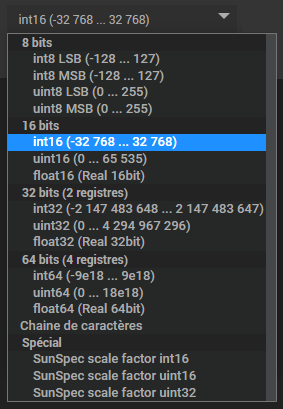
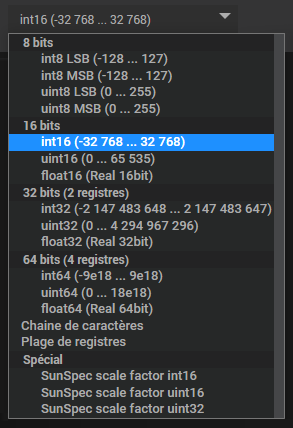
Mise à jour pour la beta 5

Changed region(s): [[0.0, 0.0293, 1.0, 0.9976]]

diff --git a/fr_FR/index_b.md b/fr_FR/index_b.md
@@ -241,6 +241,7 @@ Pour comprendre cette partie, il faut un peu de théorie :
 | uint                  | Entier positif            |
 | float                 | Nombre flottant (réel)    |
 | chaine de caractères  | Chaine de caractères      |
+| plage de registres    | Plage de registres        |
 | SunSpec scale factor  | Type spécifique à SunSpec |
 
 Pour les types int, uint et float, le démon MyModbus lira le bon nombre de registres en fonction du nombre de bits sur
@@ -249,14 +250,29 @@ lesquels sont codées les variables. L'adresse de ces variables doit être un no
 Pour une chaine de caractères, l'adresse doit être renseignée comme ceci : 'adresse_début [longueur]'.
 Par exemple '20406 [32]' pour une chaine de caractère de 32 caractères qui commence à l'adresse 20406.
 
-Dans les appareils de la marque SunSpec, certaines mesures sont codées avec deux registres : 'registre1 * 10^registre2'.
-Pour ces types de variable, l'adresse doit être renseignée comme ceci : 'registre1 sf registre2', par exemple
-'40036 sf 40045'.
+Une plage de registres correspond à un groupe de plusieurs registres à lire en une requête. L'adresse est au même format
+que pour une chaîne de caractères à savoir 'adresse_début [longueur]'. La nombre maximal de registres lisibles en une
+requête dépend du matériel et est généralement documenté. Une commande de ce type a une valeur '1' si la requête est
+exécutée sans erreur. Sinon elle prend la valeur '0'.  
+Pour extraire une valeur de cette plage de registres, les autres commande doivent être configurée avec une requête
+'Depuis une plage de données'. Un champs devant contenir le nom de la commande qui lit la plage concernée doit être
+renseigné et le champs d'adresse est identique à ce qui doit être configuré pour une commande standard.  
+Attention à faire en sorte que le registre soit effectivement dans la plage de lecture.
+
+> :memo: ***Remarque***  
+> Une communication Modbus avec un minimum de requêtes est bien plus performante et moins gourmande en ressources si
+> le nombre de requêtes est limité au minimum. Il est vivement conseillé d'utiliser les plages de registres, même si
+> une plage est définie juste pour 2 ou 3 commandes.
+
+Dans les appareils utilisant la norme SunSpec, certaines mesures sont codées avec deux registres :
+'registre1 * 10^registre2'. Pour ces types de variable, l'adresse doit être renseignée comme ceci :
+'registre1 sf registre2', par exemple '40036 sf 40045'. Si la puissance de 10 se trouve à une adresse avant celui de
+la valeur ('40223 sf 40210' par exemple) il faut passer par une plage de registres.
 
 > :memo: ***Remarque***  
 > Les variables spécifiques à SunSpec auraient pu être lues en deux commandes et calculées via un virtuel.
-> Comme SunSpec fabrique également des cartes pour d'autres fabricants, il a été décidé d'inclure leur type spécial
-> puisque ce type pourrait se retrouver dans d'autres appareils. Si d'autres types spéciaux devaient être inclus dans
+> Comme SunSpec est une norme assez largement utilisée, il a été décidé d'inclure ce type spécial
+> puisque il pourrait être utilisé dans différents appareils. Si d'autres types spéciaux devaient être inclus dans
 > MyModbus, vous pouvez en faire la demande sur le forum Community en précisant bien le tag `#plugin-mymodbus`.
 
 ### Inverser les octets ou les mots

diff --git a/fr_FR/changelog_b.md b/fr_FR/changelog_b.md
@@ -2,7 +2,7 @@
 
 ## TODO
 - Templates : exporter, importer (en json) et éventuellement éditer des templates
-- Commande action avec la valeur d'une commende Jeedom en tant que valeur
+- Commande action avec la valeur d'une commande Jeedom en tant que valeur
 - Passer le niveau de log à la volée en cas de changement
 - Passer les modifications de configuration à la volée lors de la sauvegarde sans redémarrer le démon
 - Liste déroulante pour le choix de la plage de registres
@@ -14,7 +14,11 @@
   - Ajouter la méthode pour la mise à l'heure des automates Crouzet et Zelio
   - Documenter les nouvelles fonctionnalités
 
-## 17/03/2023 V2.0 beta3
+## 17/03/2023 V2.0 beta5
+- Lecture d'une plage d'adresses en une fois et assignation indirecte des commandes info :
+Version avec une configuration permettant une meilleure compatibilité (à documenter)
+
+## 17/03/2023 V2.0 beta4
 - Lecture d'une plage d'adresses en une fois et assignation indirecte des commandes info (à documenter)
 
 ## 17/03/2023 V2.0 beta3
